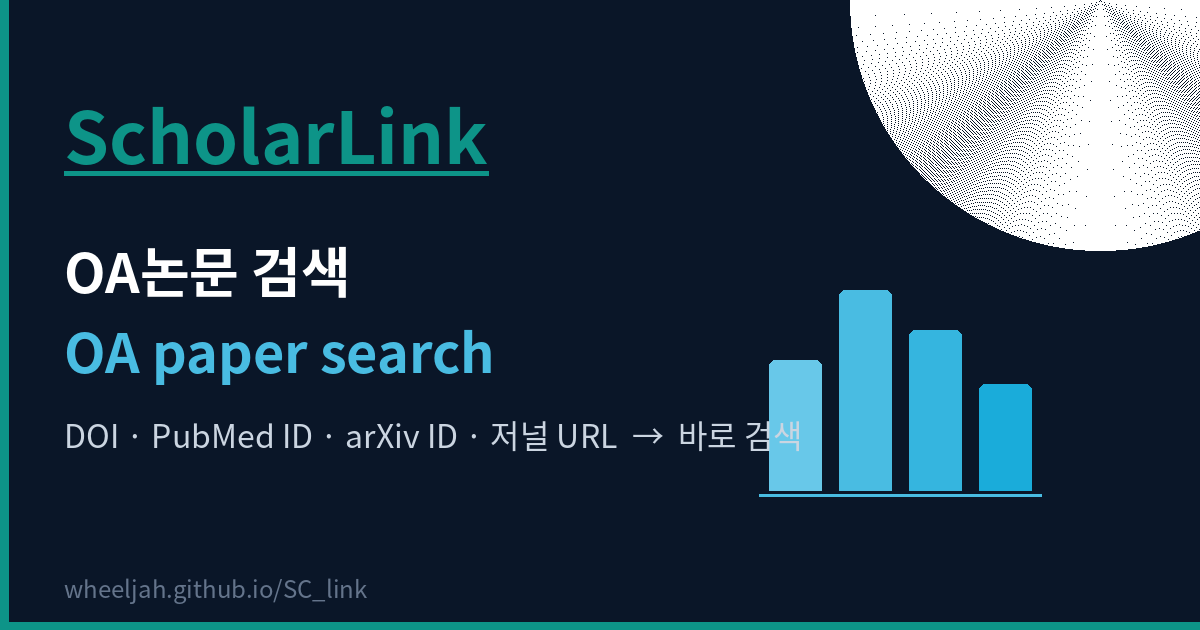
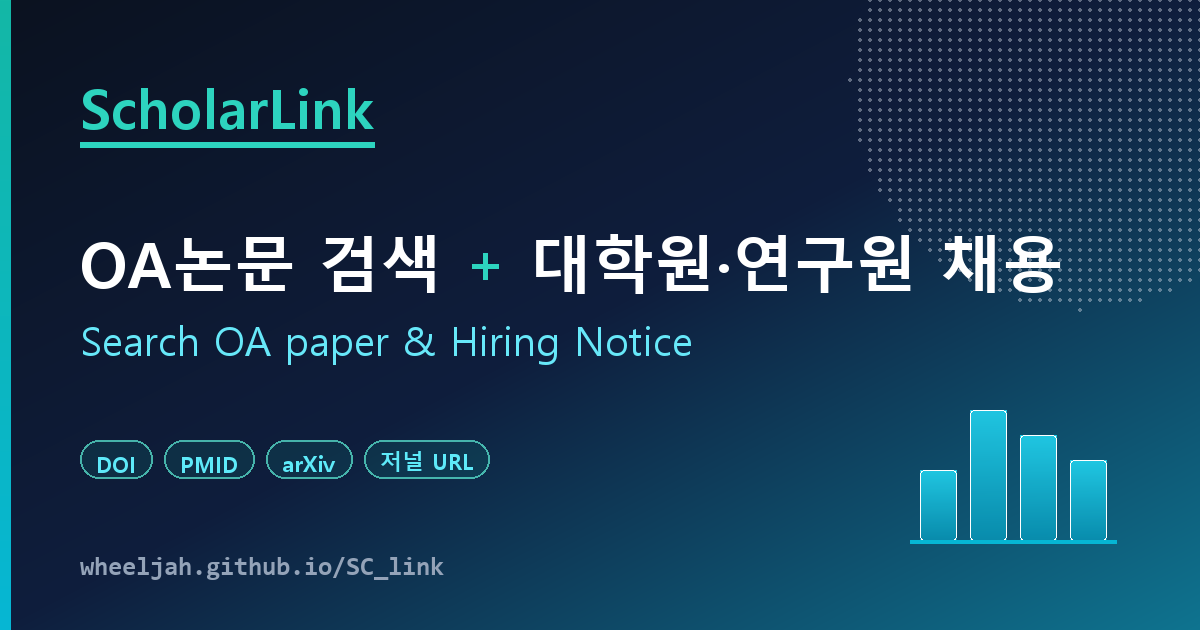
feat(seo): og-image.png 새 카피 반영 — OA논문 검색 + 대학원·연구원 채용
- 메인: 'OA논문 검색 + 대학원·연구원 채용' (한 줄, 사이안 + 기호 강조)
- 서브: 'Search OA paper & Hiring Notice' (영문, 밝은 사이안)
- 키워드 pill 4개: DOI · PMID · arXiv · 저널 URL (사이안 outline)
- 좌측 사이드바 / 우측 점선 원 / 막대 그래픽 모티프 유지
- 1200x630, og:image:width/height 메타와 일치
- tools/make_og_image.py: Pillow 기반 재생성 스크립트 추가

diff --git a/tools/make_og_image.py b/tools/make_og_image.py
@@ -1,0 +1,160 @@
+"""ScholarLink OG Image 생성 — 새 카피 반영 (1200x630 PNG)"""
+from PIL import Image, ImageDraw, ImageFont, ImageFilter
+import os
+
+OUT = r"D:\SC_link\client\public\og-image.png"
+W, H = 1200, 630
+
+# ── 폰트 (시스템 한국어 폰트) ──
+FONT_BRAND     = r"C:\Windows\Fonts\malgunbd.ttf"   # ScholarLink (Bold)
+FONT_TITLE     = r"C:\Windows\Fonts\malgunbd.ttf"   # 메인 타이틀 (ExtraBold 느낌)
+FONT_SUBTITLE  = r"C:\Windows\Fonts\malgun.ttf"     # 영문 서브
+FONT_KEYWORD   = r"C:\Windows\Fonts\malgunbd.ttf"   # 키워드 pill
+FONT_DOMAIN    = r"C:\Windows\Fonts\consolab.ttf"   # 도메인 (모노스페이스)
+
+# ── 그라데이션 배경 (135deg approximation) ──
+def hex2rgb(h):
+    h = h.lstrip('#'); return tuple(int(h[i:i+2], 16) for i in (0, 2, 4))
+
+C_TOP    = hex2rgb('#0b1220')   # 좌상단 (어두운 네이비)
+C_MID    = hex2rgb('#0f1e3d')   # 중앙
+C_BOT    = hex2rgb('#0e7490')   # 우하단 (사이안 톤)
+
+img = Image.new('RGB', (W, H), C_TOP)
+px = img.load()
+
+# 대각선 그라데이션: 점 (x,y)에 대해 (x/W + y/H) / 2 → 0..1
+# 0 → C_TOP, 0.5 → C_MID, 1 → C_BOT
+def lerp(a, b, t): return tuple(int(a[i] + (b[i] - a[i]) * t) for i in range(3))
+def grad(t):
+    if t < 0.5:
+        return lerp(C_TOP, C_MID, t / 0.5)
+    else:
+        return lerp(C_MID, C_BOT, (t - 0.5) / 0.5)
+
+for y in range(H):
+    for x in range(W):
+        t = (x / W + y / H) / 2
+        px[x, y] = grad(t)
+
+# 부드럽게
+img = img.filter(ImageFilter.SMOOTH)
+
+draw = ImageDraw.Draw(img, 'RGBA')
+
+# ── 좌측 사이드바 (사이안 그라데이션) ──
+side_w = 10
+for y in range(H):
+    t = y / H
+    c = lerp(hex2rgb('#14b8a6'), hex2rgb('#06b6d4'), t)
+    draw.line([(0, y), (side_w, y)], fill=c)
+
+# ── 우측 상단 점선 원 ──
+cx, cy, r = 1080, 80, 230
+# mask: 원 안쪽만 점 패턴
+dot_layer = Image.new('RGBA', (W, H), (0, 0, 0, 0))
+dot_draw = ImageDraw.Draw(dot_layer)
+dot_color = (203, 213, 225, 110)  # 연한 회색, 반투명
+spacing = 10
+for yy in range(cy - r - 40, cy + r + 40, spacing):
+    for xx in range(cx - r - 40, cx + r + 40, spacing):
+        dx, dy = xx - cx, yy - cy
+        d2 = dx*dx + dy*dy
+        if d2 <= r*r:
+            dot_draw.ellipse([xx-1.3, yy-1.3, xx+1.3, yy+1.3], fill=dot_color)
+img = Image.alpha_composite(img.convert('RGBA'), dot_layer).convert('RGB')
+draw = ImageDraw.Draw(img, 'RGBA')
+
+# ── 우측 하단 막대 그래픽 ──
+bar_x = 920
+bar_y = 540   # base line
+bar_w = 36
+bar_gap = 14
+bar_heights = [70, 130, 105, 80]
+for i, h in enumerate(bar_heights):
+    x0 = bar_x + i * (bar_w + bar_gap)
+    y0 = bar_y - h
+    x1 = x0 + bar_w
+    y1 = bar_y
+    # 그라데이션 (위→아래 사이안→딥사이안) — 단순 두 단
+    for y in range(y0, y1):
+        t = (y - y0) / max(1, (y1 - y0))
+        c = lerp(hex2rgb('#22d3ee'), hex2rgb('#0891b2'), t)
+        draw.line([(x0, y), (x1, y)], fill=(*c, 230))
+    draw.rounded_rectangle([x0, y0, x1, y1], radius=4, outline=None)
+# 바닥선
+draw.rectangle([bar_x - 10, bar_y, bar_x + 4 * (bar_w + bar_gap) - bar_gap + 10, bar_y + 3], fill=(6, 182, 212, 255))
+
+# ── 텍스트: ScholarLink (브랜드) ──
+f_brand = ImageFont.truetype(FONT_BRAND, 54)
+brand = "ScholarLink"
+draw.text((80, 70), brand, font=f_brand, fill=(45, 212, 191, 255))
+# 밑줄
+tb = draw.textbbox((80, 70), brand, font=f_brand)
+underline_y = tb[3] + 12
+draw.rectangle([80, underline_y, tb[2], underline_y + 5], fill=(45, 212, 191, 255))
+
+# ── 메인 타이틀: "OA논문 검색 + 대학원·연구원 채용" ──
+f_title = ImageFont.truetype(FONT_TITLE, 62)
+title_left = "OA논문 검색"
+title_plus = "+"
+title_right = "대학원·연구원 채용"
+
+def text_w(s, font):
+    bb = draw.textbbox((0, 0), s, font=font)
+    return bb[2] - bb[0], bb
+
+w_left, _ = text_w(title_left, f_title)
+w_plus, _ = text_w(title_plus, f_title)
+w_right, _ = text_w(title_right, f_title)
+total_w = w_left + 24 + w_plus + 24 + w_right
+# 한 줄 가운데 정렬 (또는 좌측 정렬)
+y_title = 220
+x_cur = 80
+draw.text((x_cur, y_title), title_left, font=f_title, fill=(255, 255, 255, 255))
+x_cur += w_left + 24
+# + 기호는 사이안
+f_plus = ImageFont.truetype(FONT_TITLE, 56)
+w_plus2, _ = text_w(title_plus, f_plus)
+draw.text((x_cur, y_title + 2), title_plus, font=f_plus, fill=(45, 212, 191, 255))
+x_cur += w_plus2 + 24
+draw.text((x_cur, y_title), title_right, font=f_title, fill=(255, 255, 255, 255))
+
+# ── 서브 영문 ──
+f_sub = ImageFont.truetype(FONT_SUBTITLE, 40)
+draw.text((80, 312), "Search OA paper & Hiring Notice", font=f_sub, fill=(103, 232, 249, 255))
+
+# ── 키워드 pill ──
+f_kw = ImageFont.truetype(FONT_KEYWORD, 22)
+keywords = ["DOI", "PMID", "arXiv", "저널 URL"]
+x_cur = 80
+y_kw = 440
+for kw in keywords:
+    bb = draw.textbbox((0, 0), kw, font=f_kw)
+    kw_w = bb[2] - bb[0]
+    pad_x, pad_y = 16, 8
+    pill_w = kw_w + pad_x * 2
+    pill_h = 22 + pad_y * 2
+    # outline + fill
+    draw.rounded_rectangle(
+        [x_cur, y_kw, x_cur + pill_w, y_kw + pill_h],
+        radius=pill_h // 2,
+        fill=(13, 148, 136, 40),
+        outline=(94, 234, 212, 180),
+        width=2,
+    )
+    # 텍스트 수직 중앙
+    text_y = y_kw + (pill_h - (bb[3] - bb[1])) // 2 - 2
+    draw.text((x_cur + pad_x, text_y), kw, font=f_kw, fill=(94, 234, 249, 255))
+    x_cur += pill_w + 12
+
+# ── 도메인 ──
+try:
+    f_domain = ImageFont.truetype(FONT_DOMAIN, 26)
+except OSError:
+    f_domain = ImageFont.truetype(r"C:\Windows\Fonts\consola.ttf", 26)
+draw.text((80, 555), "wheeljah.github.io/SC_link", font=f_domain, fill=(148, 163, 184, 255))
+
+# ── 저장 ──
+img.convert('RGB').save(OUT, 'PNG', optimize=True)
+print(f"OK: {OUT}  ({os.path.getsize(OUT)} bytes, {img.size})")
